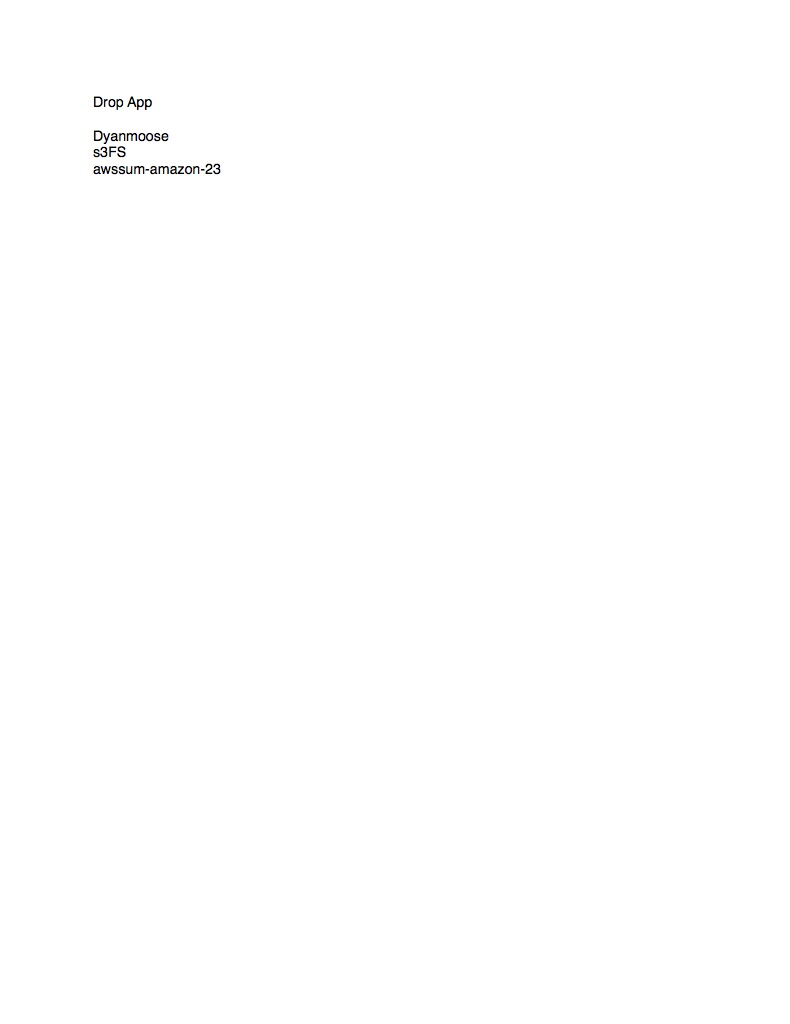
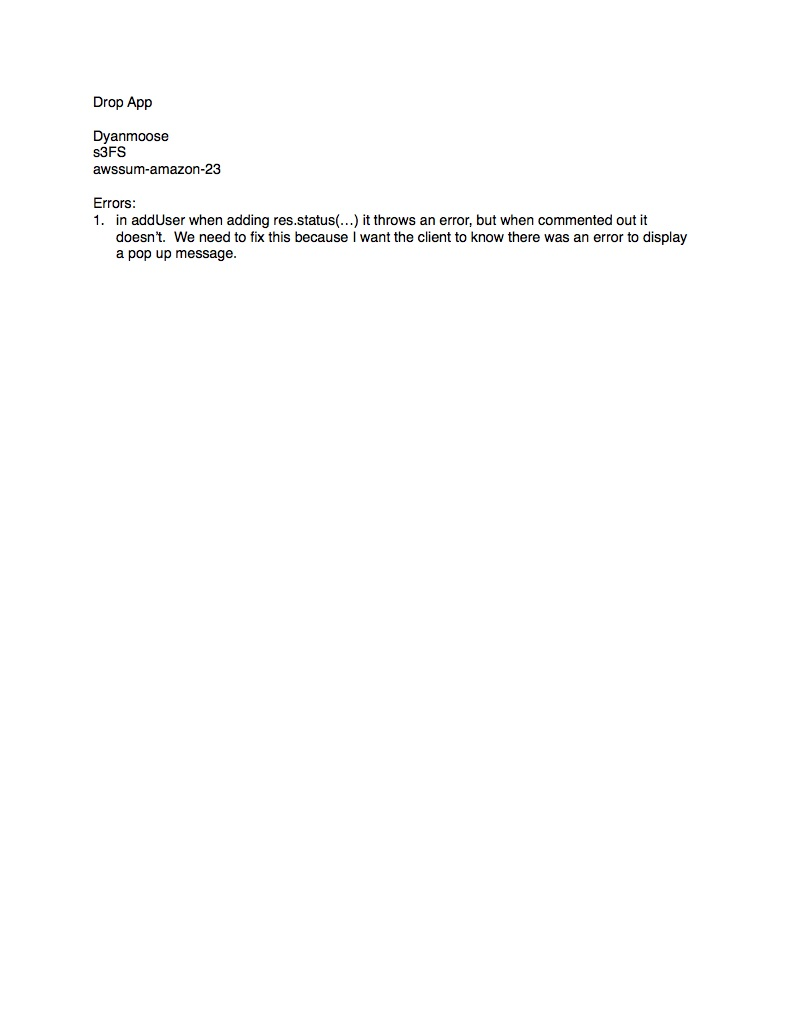
added 'addUser' functionality

Changed region(s): [[0.1215, 0.1875, 0.881, 0.25]]

diff --git a/Backend/Data_Manager/userManager.js b/Backend/Data_Manager/userManager.js
@@ -11,12 +11,41 @@ exports.init = function( database , ObjectID) {
 
 // var model = require('../Models/models');
 var Model = require('../Models/models');
+var pwdManager = require('../Authentication/managePasswords');
+var express = require('express');
 console.log('model is ' + Model );
 
 /* Add user */
 exports.addUser = function( req , res ) {
 
     console.log("HTTP Post: '/api/v1/users/addUser'");
+    console.log('res is: ' + res );
+    var user = req.body;
+    pwdManager.cryptPassword( user.password , function(err , hash) {
+
+        user.password = hash;
+        console.log(hash);
+
+        Model.User.findOne( { email: user.email } , function( err , res ) {
+            if( !res ) {
+                var param = req.body;
+                var user = new Model.User( param );
+                user.save( function(err) {
+                    if(err) {
+                        // res.status(404).send('error adding');
+                        console.log(err);
+                    }else {
+                        console.log("houston, we're good");
+                    }
+                });
+                //if(res) res.send( 'user added'); /* res.status(201).end( { comment: "Success!" } )*/
+            } else {
+                // res.status(500).send('oops');
+                console.log("Exists.")
+            }
+        });
+
+    });
     // db.users.findOne({
     //     email: req.body.email
     // } , function( err , dbResult) {
@@ -60,7 +89,7 @@ exports.addUser = function( req , res ) {
     //     }
     // });
     //
-    // db.Users.find( function(err , docs) {
+    // db.User.find( function(err , docs) {
     //     if( err )
     //         console.log(err);
     //     else {
@@ -127,31 +156,89 @@ exports.addUser = function( req , res ) {
     //     }
     // });
 
-    var hello_world = new Model.School( { name : 'Harvard' } );
-    hello_world.save( function(err) {
-        if(err)
-            console.log(err);
-        else
-            console.log('saved hello_world!');
+    // var hello_world = new Model.School( { name : 'Harvard' } );
+    // hello_world.save( function(err) {
+    //     if(err)
+    //         console.log(err);
+    //     else
+    //         console.log('saved hello_world!');
+    //
+    // });
+    //
+    // var user = new Model.User( { first : 'Sid' } );
+    // user.save( function(err) {
+    //     if(err)
+    //         console.log(err);
+    //     else {
+    //         console.log('saved new user!');
+    //     }
+    // });
 
-    });
+    // var temp = Model.User.findOne( {first:'Sid' } , function(err , res){
+    //     if(!res) {
+    //         console.log('cant find sid');
+    //     }else {
+    //         console.log('found');
+    //         res.email = 'sid.nikam@gmail.com';
+    //         console.log('added email');
+    //         res.save( function(err) {
+    //             if(err)
+    //                 console.log(err);
+    //             else {
+    //                 console.log('Just saved: ' + res + '!!');
+    //             }
+    //         });
+    //     }
+    // });
+    // Model.User.findOne( { email:'sid.nikam@gmail.com' } , function(err , res) {
+    //
+    //     if(!res) {
+    //         console.log('I cant find him through email!!');
+    //     }else {
+    //         console.log('I found him through email!');
+    //         var params = {
+    //             itemName: 'Fix Tires' ,
+    //             days_old: '5' ,
+    //             sellerEmail: res.email
+    //         };
+    //         Model.School.findOne( { name : 'Harvard' } , function(err , res) {
+    //             if(!res)
+    //                 console.log('not found');
+    //             else { //found
+    //                 var item = new Model.Item( params );
+    //                 console.log('item is:  ' + item);
+    //                 res.feed.push( item );
+    //                 console.log('Done!!');
+    //                 res.save( function(err) {
+    //                     if(err)
+    //                         console.log('Hard time saving.');
+    //                     else
+    //                         console.log('Just saved the feed in: ' + res.name + '!!');
+    //                 });
+    //             }
+    //         });
+    //     }
+    // });
 
-    var user = new Model.User( { first : 'Zain' , last: 'Umerani' } );
-    user.save( function(err) {
-        if(err)
-            console.log(err);
-        else {
-            console.log('saved new user!');
-        }
-    });
+    // console.log('userTwo email is: ' + userTwo.first );
 
-    var userTwo = new Model.User( { first : 'Sid' , last: 'Nikam' } );
-    userTwo.save( function(err) {
-        if(err)
-            console.log(err);
-        else {
-            console.log('saved new user (sid)!');
-        }
-    });
+    // var params = {
+    //     itemName: 'Fix Tires' ,
+    //     days_old: '5' ,
+    //     sellerEmail: userTwo.email
+    // };
+    //
+    // Model.School.findOne( { name : 'Harvard' } , function(err , res) {
+    //     if(!res)
+    //         console.log('not found');
+    //     else { //found
+    //         var item = new Model.Item( params );
+    //         console.log('item is:  ' + item);
+    //         res.feed.push( item );
+    //         console.log('Done!!');
+    //     }
+    // });
+
+
 
 };

diff --git a/Frontend/www/index.html b/Frontend/www/index.html
@@ -14,13 +14,13 @@
 
     <!-- Google Fonts -->
     <!-- Google Fonts -->
-    <link href='http://fonts.googleapis.com/css?family=Lato:300&subset=latin,latin-ext' rel='stylesheet' type='text/css'>
-    <link href='http://fonts.googleapis.com/css?family=Montserrat' rel='stylesheet' type='text/css'>
-    <link href='http://fonts.googleapis.com/css?family=Josefin+Sans:300&subset=latin,latin-ext' rel='stylesheet' type='text/css'>
-    <link href='https://fonts.googleapis.com/css?family=Varela+Round' rel='stylesheet' type='text/css'>
-    <link href='https://fonts.googleapis.com/css?family=Roboto+Condensed' rel='stylesheet' type='text/css'>
-    <link href='https://fonts.googleapis.com/css?family=Indie+Flower' rel='stylesheet' type='text/css'>
-    <link href='https://fonts.googleapis.com/css?family=Raleway' rel='stylesheet' type='text/css'>
+    <link href="http://fonts.googleapis.com/css?family=Lato%3A300&amp;subset=latin%2Clatin-ext" rel="stylesheet" type="text/css">
+    <link href="http://fonts.googleapis.com/css?family=Montserrat" rel="stylesheet" type="text/css">
+    <link href="http://fonts.googleapis.com/css?family=Josefin%20Sans%3A300&amp;subset=latin%2Clatin-ext" rel="stylesheet" type="text/css">
+    <link href="https://fonts.googleapis.com/css?family=Varela%20Round" rel="stylesheet" type="text/css">
+    <link href="https://fonts.googleapis.com/css?family=Roboto%20Condensed" rel="stylesheet" type="text/css">
+    <link href="https://fonts.googleapis.com/css?family=Indie%20Flower" rel="stylesheet" type="text/css">
+    <link href="https://fonts.googleapis.com/css?family=Raleway" rel="stylesheet" type="text/css">
 
     <!-- Fonts -->
     <link rel="stylesheet" href="https://maxcdn.bootstrapcdn.com/font-awesome/4.4.0/css/font-awesome.min.css">

diff --git a/Frontend/www/js/services.js b/Frontend/www/js/services.js
@@ -48,17 +48,42 @@ angular.module('starter.services', [])
     }
   };
 })
-.factory('UserAPI' , function($http) {
+.factory('UserAPI' , function($http , $ionicPopup) {
     var base = "http://localhost:8080"
 
     return {
-        addUser: function() {
+        addUser: function(user) {
             $http({
                 method: 'POST' ,
-                url: base + '/api/v1/users/addUser'
-            }).then( function success() {
-                console.log("hooray!!");
-            });
+                url: base + '/api/v1/users/addUser' ,
+                data: user
+            }).success( function success(res) {
+                console.log("User Added and sent to server!");
+                var myPopUp = $ionicPopup.show( {
+                    title: 'Welcome to Drop!' ,
+                    buttons: [ {
+                        text: "Let's begin" ,
+                        type: 'button-positive'
+                    } ] ,
+                    onTap: function(e) {
+                        e.preventDefault();
+                    }
+                });
+                return res;
+            }).error( function error(err) {
+                console.log("Could not grab the user ... " );
+                var myPopUp = $ionicPopup.show( {
+                    title: 'User exists' ,
+                    buttons: [ {
+                        text: 'OK' ,
+                        type: 'button-positive'
+                    } ] ,
+                    onTap: function(e) {
+                        e.preventDefault();
+                    }
+                });
+                return err;
+            })
         }
     }
 });

diff --git a/Frontend/www/js/controllers.js b/Frontend/www/js/controllers.js
@@ -62,7 +62,7 @@ angular.module('starter.controllers', [])
 
 
 })
-.controller('SignUpCtrl' , function( $scope ) {
+.controller('SignUpCtrl' , function( $scope , UserAPI) {
 
     $scope.user = {
         first: "" ,
@@ -73,7 +73,9 @@ angular.module('starter.controllers', [])
     }
 
     $scope.done = function() {
+        $scope.user.school = $scope.user.school.toUpperCase();
         console.log($scope.user);
+        UserAPI.addUser($scope.user);
     }
 
 

diff --git a/Backend/Models/models.js b/Backend/Models/models.js
@@ -8,6 +8,7 @@ var itemSchema = new Schema( {
     itemName: String ,
     days_old: Number ,
     sellerName: String ,
+    sellerEmail: String ,
     picture_link: String
 });
 
@@ -38,10 +39,8 @@ if( mongoose.models.Item ) {
 }
 
 if( mongoose.models.User ) {
-    console.log('exists');
     User = mongoose.model('User');
 } else {
-    console.log('does not exist (yet ... )');
     User = mongoose.model('User' , userSchema );
 }
 
